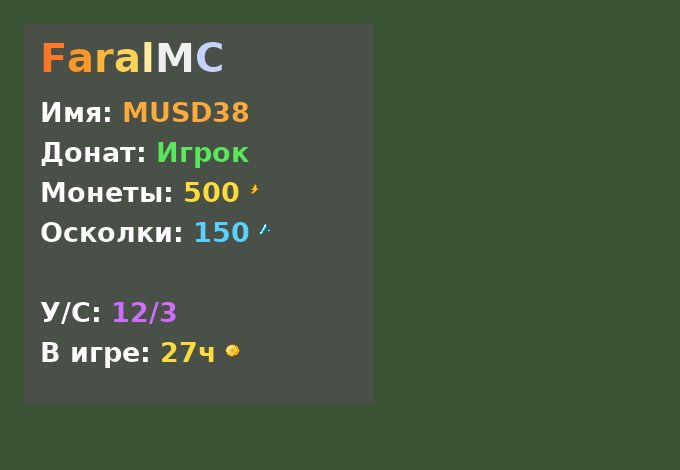
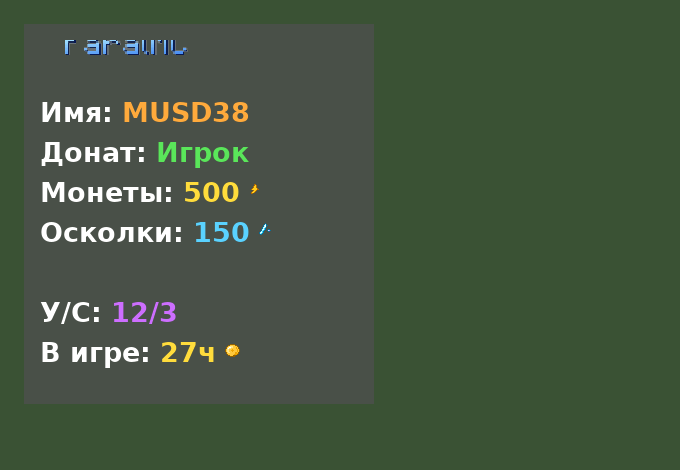
v1.8.0: заголовок скорборда картинкой из пака (FaralMC одной строкой)
- Глифы E010-E017 в glyph_E0.png: полоса-логотип FaralMC игровым шрифтом,
  синий градиент с тенью; заголовок скорборда теперь текстура, высота 1 строка
- scoreboard.title-logo в конфиге (enabled/start-code/glyphs), текстовый
  заголовок остался запасным при enabled: false
- Пак: новые UUID + версия 1.6.0 для гарантированной перекачки
- Значки устройств и здоровье под ником из 1.7.0 входят в релиз

Changed region(s): [[0.0618, 0.0596, 0.3397, 0.1787]]

diff --git a/tools/make_icons.py b/tools/make_icons.py
@@ -22,6 +22,9 @@ ROOT = Path(__file__).resolve().parent.parent
 PACK = ROOT / "FaralResourcePack"
 PREVIEW = ROOT / "preview"
 FONT_LOGO = ROOT / "tools" / "fonts" / "MinecraftTen.ttf"
+FONT_GAME = ROOT / "tools" / "fonts" / "Minecraftia.ttf"
+TITLE_START = 0x10   # глифы E010.. — полоса логотипа в заголовок скорборда
+TITLE_GLYPHS = 8
 
 PALETTES = {
     "coin": {"D": (146, 96, 0, 255), "G": (255, 201, 60, 255), "L": (255, 231, 138, 255),
@@ -364,6 +367,40 @@ def make_logo():
     return canvas
 
 
+def make_title_strip():
+    """Маленький логотип FaralMC одной строкой: полоса 128x16 для глифов E010-E017."""
+    strip = Image.new("RGBA", (TITLE_GLYPHS * 16, 16), (0, 0, 0, 0))
+    text = "FaralMC"
+    size = 18
+    while size > 8:
+        f = ImageFont.truetype(str(FONT_GAME), size)
+        d = ImageDraw.Draw(strip)
+        if d.textlength(text, font=f) <= TITLE_GLYPHS * 16 - 6:
+            break
+        size -= 1
+    f = ImageFont.truetype(str(FONT_GAME), size)
+    d = ImageDraw.Draw(strip)
+    tw = d.textlength(text, font=f)
+    bb = d.textbbox((0, 0), text, font=f)
+    x = int((TITLE_GLYPHS * 16 - tw) // 2) - bb[0]
+    y = int((16 - (bb[3] - bb[1])) // 2) - bb[1]
+    mask = Image.new("L", strip.size, 0)
+    ImageDraw.Draw(mask).text((x, y), text, font=f, fill=255)
+    grad = Image.new("RGBA", strip.size)
+    px = grad.load()
+    for yy in range(16):
+        for xx in range(strip.width):
+            t = min(1.0, max(0.0, (xx / strip.width) * 0.3 + (yy / 16) * 0.7))
+            px[xx, yy] = lerp((165, 228, 255), (24, 96, 238), t) + (255,)
+    shadow = Image.new("RGBA", strip.size, (0, 0, 0, 0))
+    ImageDraw.Draw(shadow).text((x + 1, y + 1), text, font=f, fill=(8, 26, 84, 255))
+    strip.alpha_composite(shadow)
+    letters = Image.new("RGBA", strip.size, (0, 0, 0, 0))
+    letters.paste(grad, (0, 0), mask)
+    strip.alpha_composite(letters)
+    return strip
+
+
 def main():
     (PACK / "font").mkdir(parents=True, exist_ok=True)
     (PACK / "textures" / "ui").mkdir(parents=True, exist_ok=True)
@@ -379,6 +416,13 @@ def main():
         sheet.paste(small, ((idx % 16) * CELL + OFF, (idx // 16) * CELL + OFF), small)
         img.save(PREVIEW / "icons" / f"{code[1:]}_{name}.png")
         img.resize((256, 256), Image.NEAREST).save(PREVIEW / "icons" / f"{code[1:]}_{name}_x16.png")
+    strip = make_title_strip()
+    for i in range(TITLE_GLYPHS):
+        idx = TITLE_START + i
+        cell_img = strip.crop((i * 16, 0, i * 16 + 16, 16))
+        sheet.paste(cell_img, ((idx % 16) * CELL, (idx // 16) * CELL), cell_img)
+    strip.save(PREVIEW / "title-logo-strip.png")
+    strip.resize((512, 64), Image.NEAREST).save(PREVIEW / "title-logo-strip_x4.png")
     sheet.save(PACK / "font" / "glyph_E0.png")
     rendered["E001"][1].resize((64, 64), Image.NEAREST).save(PACK / "pack_icon.png")
 
@@ -413,12 +457,8 @@ def main():
     panel = Image.new("RGBA", (350, 380), (0, 0, 0, 165))
     mock.paste(panel, (24, 24), panel)
     d = ImageDraw.Draw(mock)
-    title, grad = "FaralMC", [(255, 120, 40), (255, 150, 40), (255, 180, 60), (255, 210, 90),
-                              (255, 235, 160), (240, 240, 240), (200, 210, 255)]
-    x, f_title = 40, font(40)
-    for i, ch in enumerate(title):
-        d.text((x, 34), ch, font=f_title, fill=grad[i % len(grad)])
-        x += d.textlength(ch, font=f_title)
+    strip_img = make_title_strip().resize((176, 22), Image.NEAREST)
+    mock.paste(strip_img, (40, 40), strip_img)  # заголовок картинкой из пака, не текстом
     lines = [
         ("Имя: ", "MUSD38", (255, 170, 60), None),
         ("Донат: ", "Игрок", (90, 230, 90), None),

diff --git a/FaralTab/src/main/java/ru/FaralMC/FaralTab/SidebarManager.java b/FaralTab/src/main/java/ru/FaralMC/FaralTab/SidebarManager.java
@@ -140,6 +140,23 @@ public final class SidebarManager {
     }
 
     private String renderTitle(Player player) {
+        // Заголовок — маленькая картинка FaralMC из ресурспака: полоса глифов \uE010..\uE017,
+        // высота ровно одна строка, как обычный текст, только текстурой.
+        if (plugin.getConfig().getBoolean("scoreboard.title-logo.enabled", true)) {
+            try {
+                int start = Integer.parseInt(
+                        plugin.getConfig().getString("scoreboard.title-logo.start-code", "E010").trim(), 16);
+                int count = Math.max(1, Math.min(12,
+                        plugin.getConfig().getInt("scoreboard.title-logo.glyphs", 8)));
+                StringBuilder logo = new StringBuilder();
+                for (int i = 0; i < count; i++) {
+                    logo.append(new String(Character.toChars(start + i)));
+                }
+                return logo.toString();
+            } catch (IllegalArgumentException ignored) {
+                // битый конфиг — упадём на текстовый заголовок ниже
+            }
+        }
         return render(player, plugin.getConfig().getString("scoreboard.title", "FaralMC"));
     }
 
